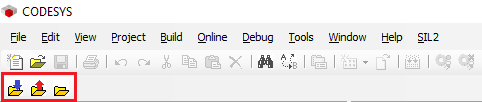
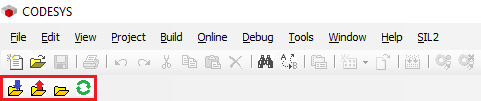
update readme

diff --git a/README.md b/README.md
@@ -11,6 +11,7 @@ CODESCRIBE supplies CODESYS scripts to:
 - export a project to plaintext files that can be tracked in source control, as well as edited in other editors
 - import plaintext files back into a CODESYS project for uploading / debugging / etc
 - generate a "template" project by making a copy of the current project and deleting all exportable objects
+- update the current working project from a template by copying the template file and importing plaintext files
 
 ![toolbar](docs/toolbar.png)
 
@@ -103,7 +104,7 @@ Once installed, proceed to [Adding the Script Toolbar to CODESYS](#adding-the-sc
 
 5. Under Categories, scroll down, select ScriptEngine Commands and pick the script you want to add
 
-    - Scripts supplied by this repo are `Export To Files`, `Export From Files` and `Save As Template`
+    - Scripts supplied by this repo are `Export To Files`, `Export From Files`, `Save As Template` and `Update From Template`
 
     ![Step 5](docs/step_5.png)
 
